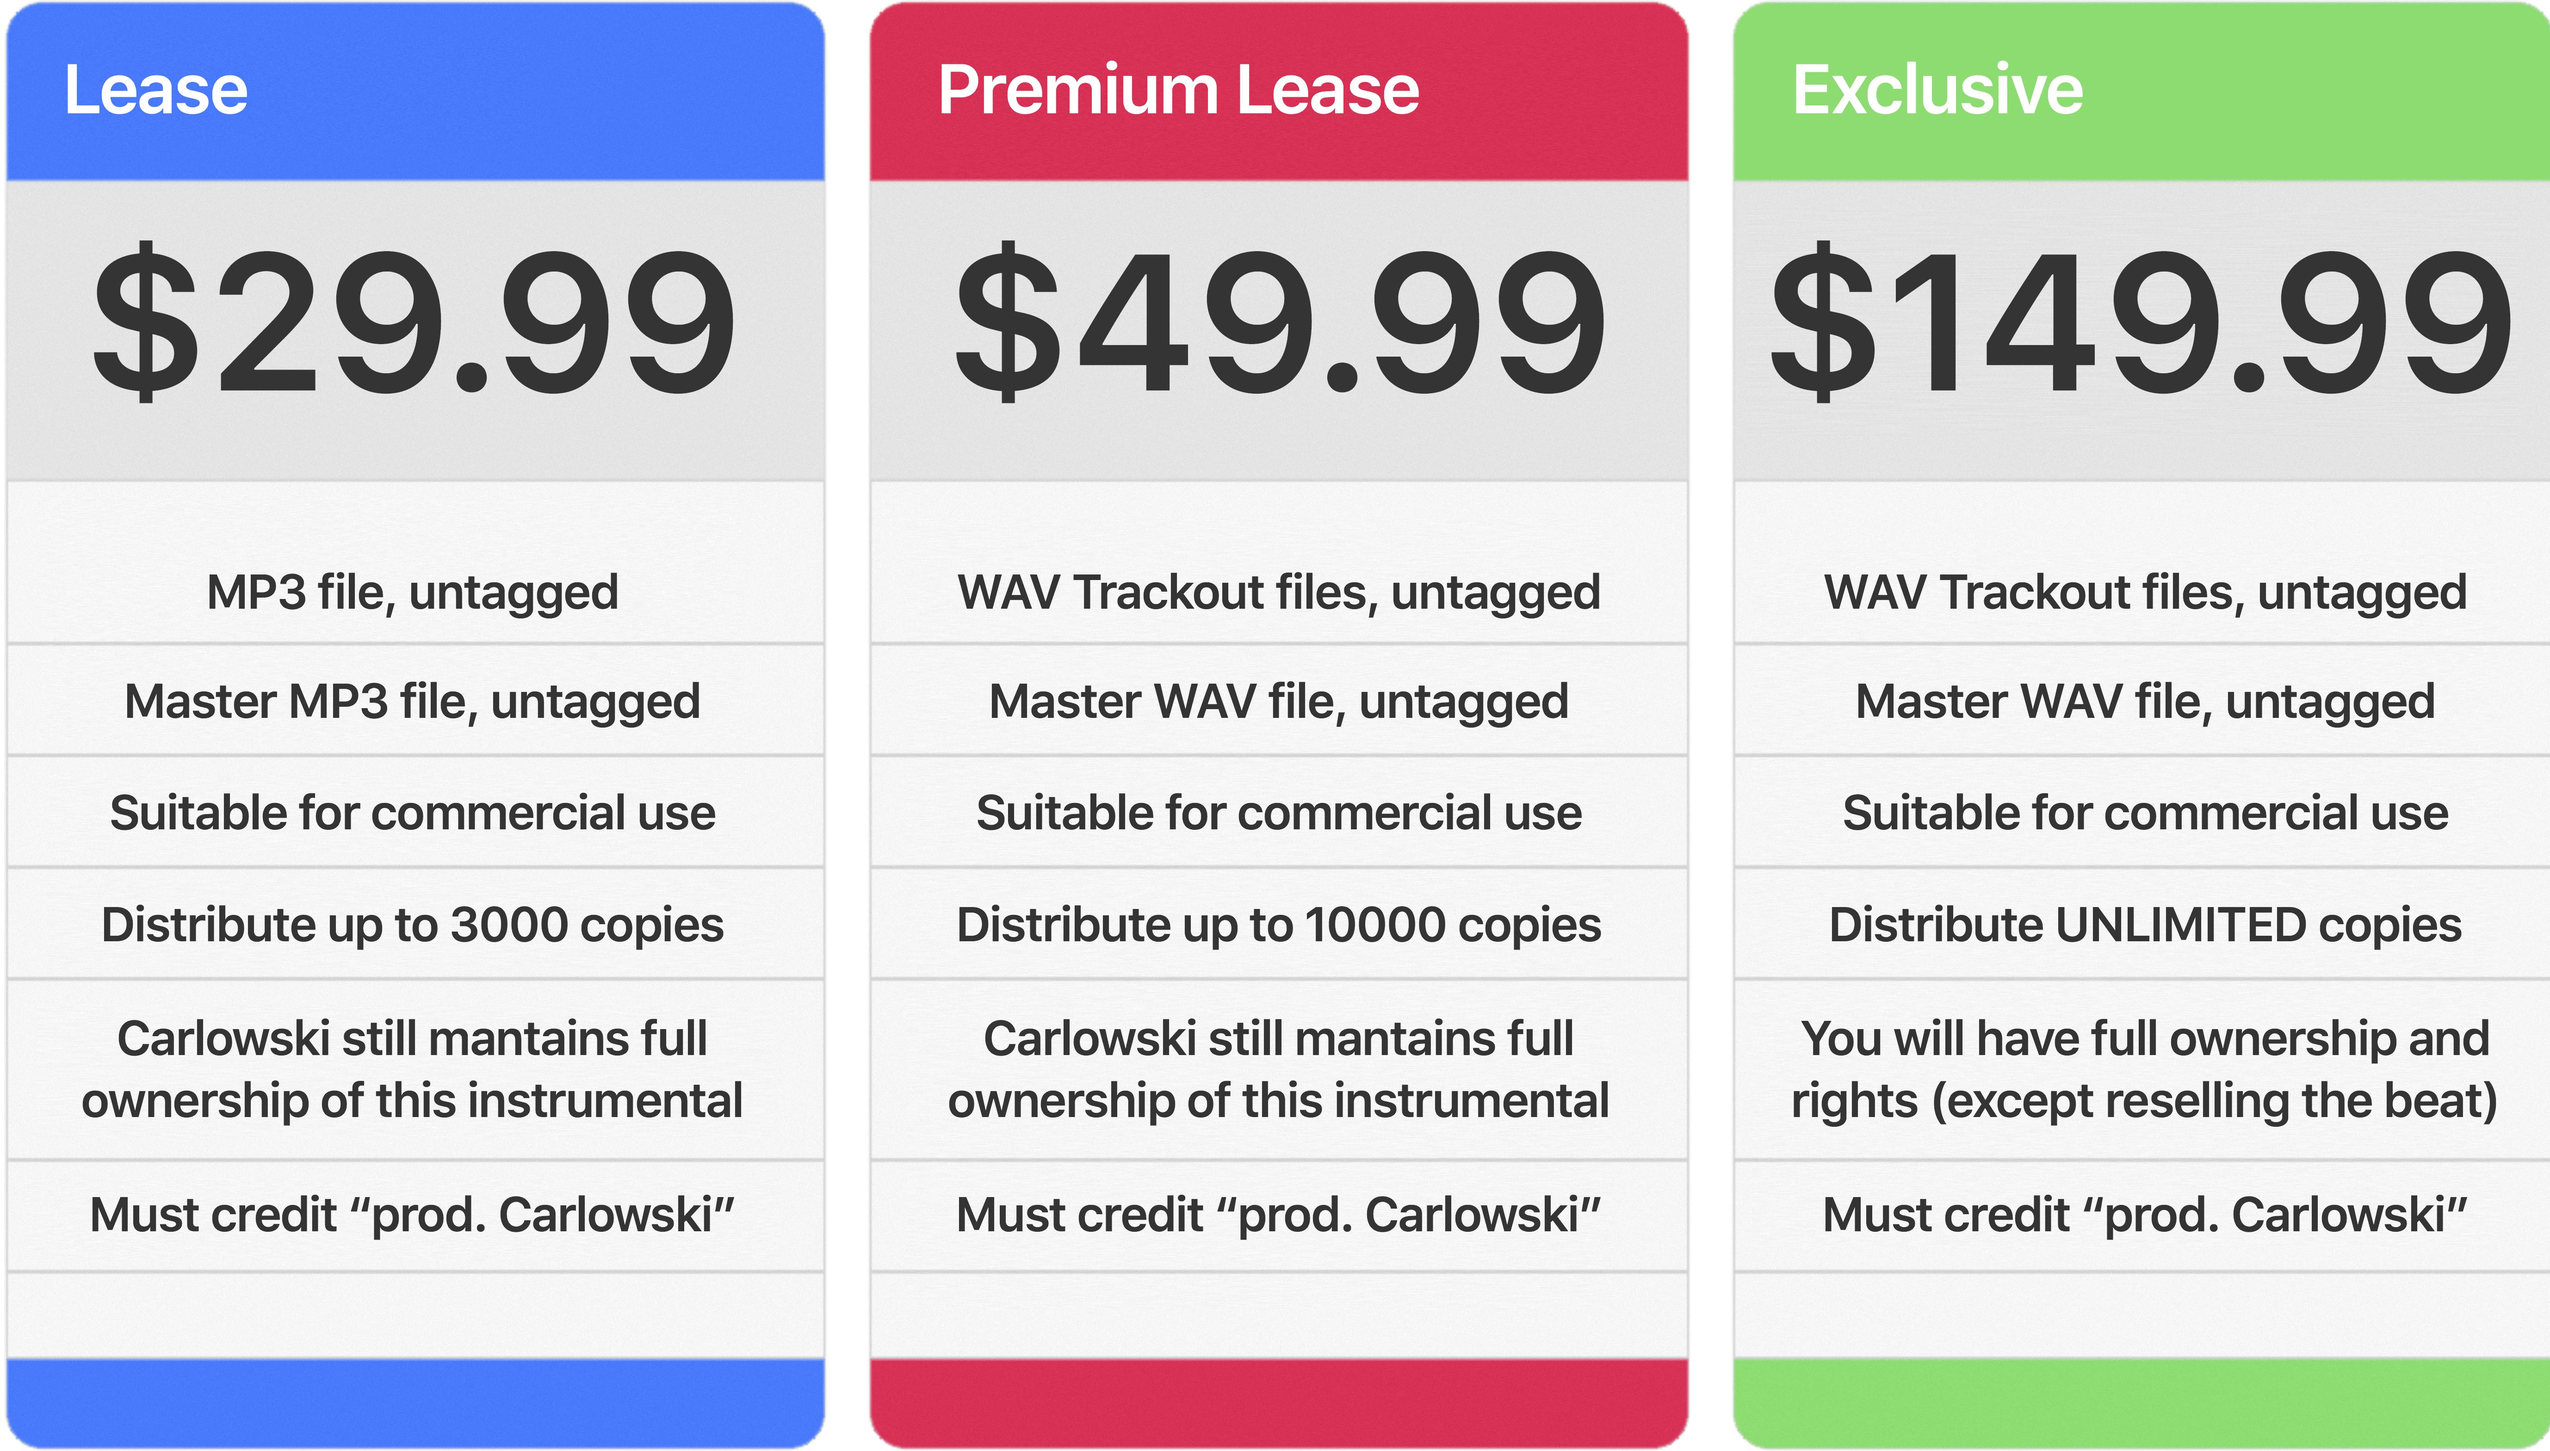
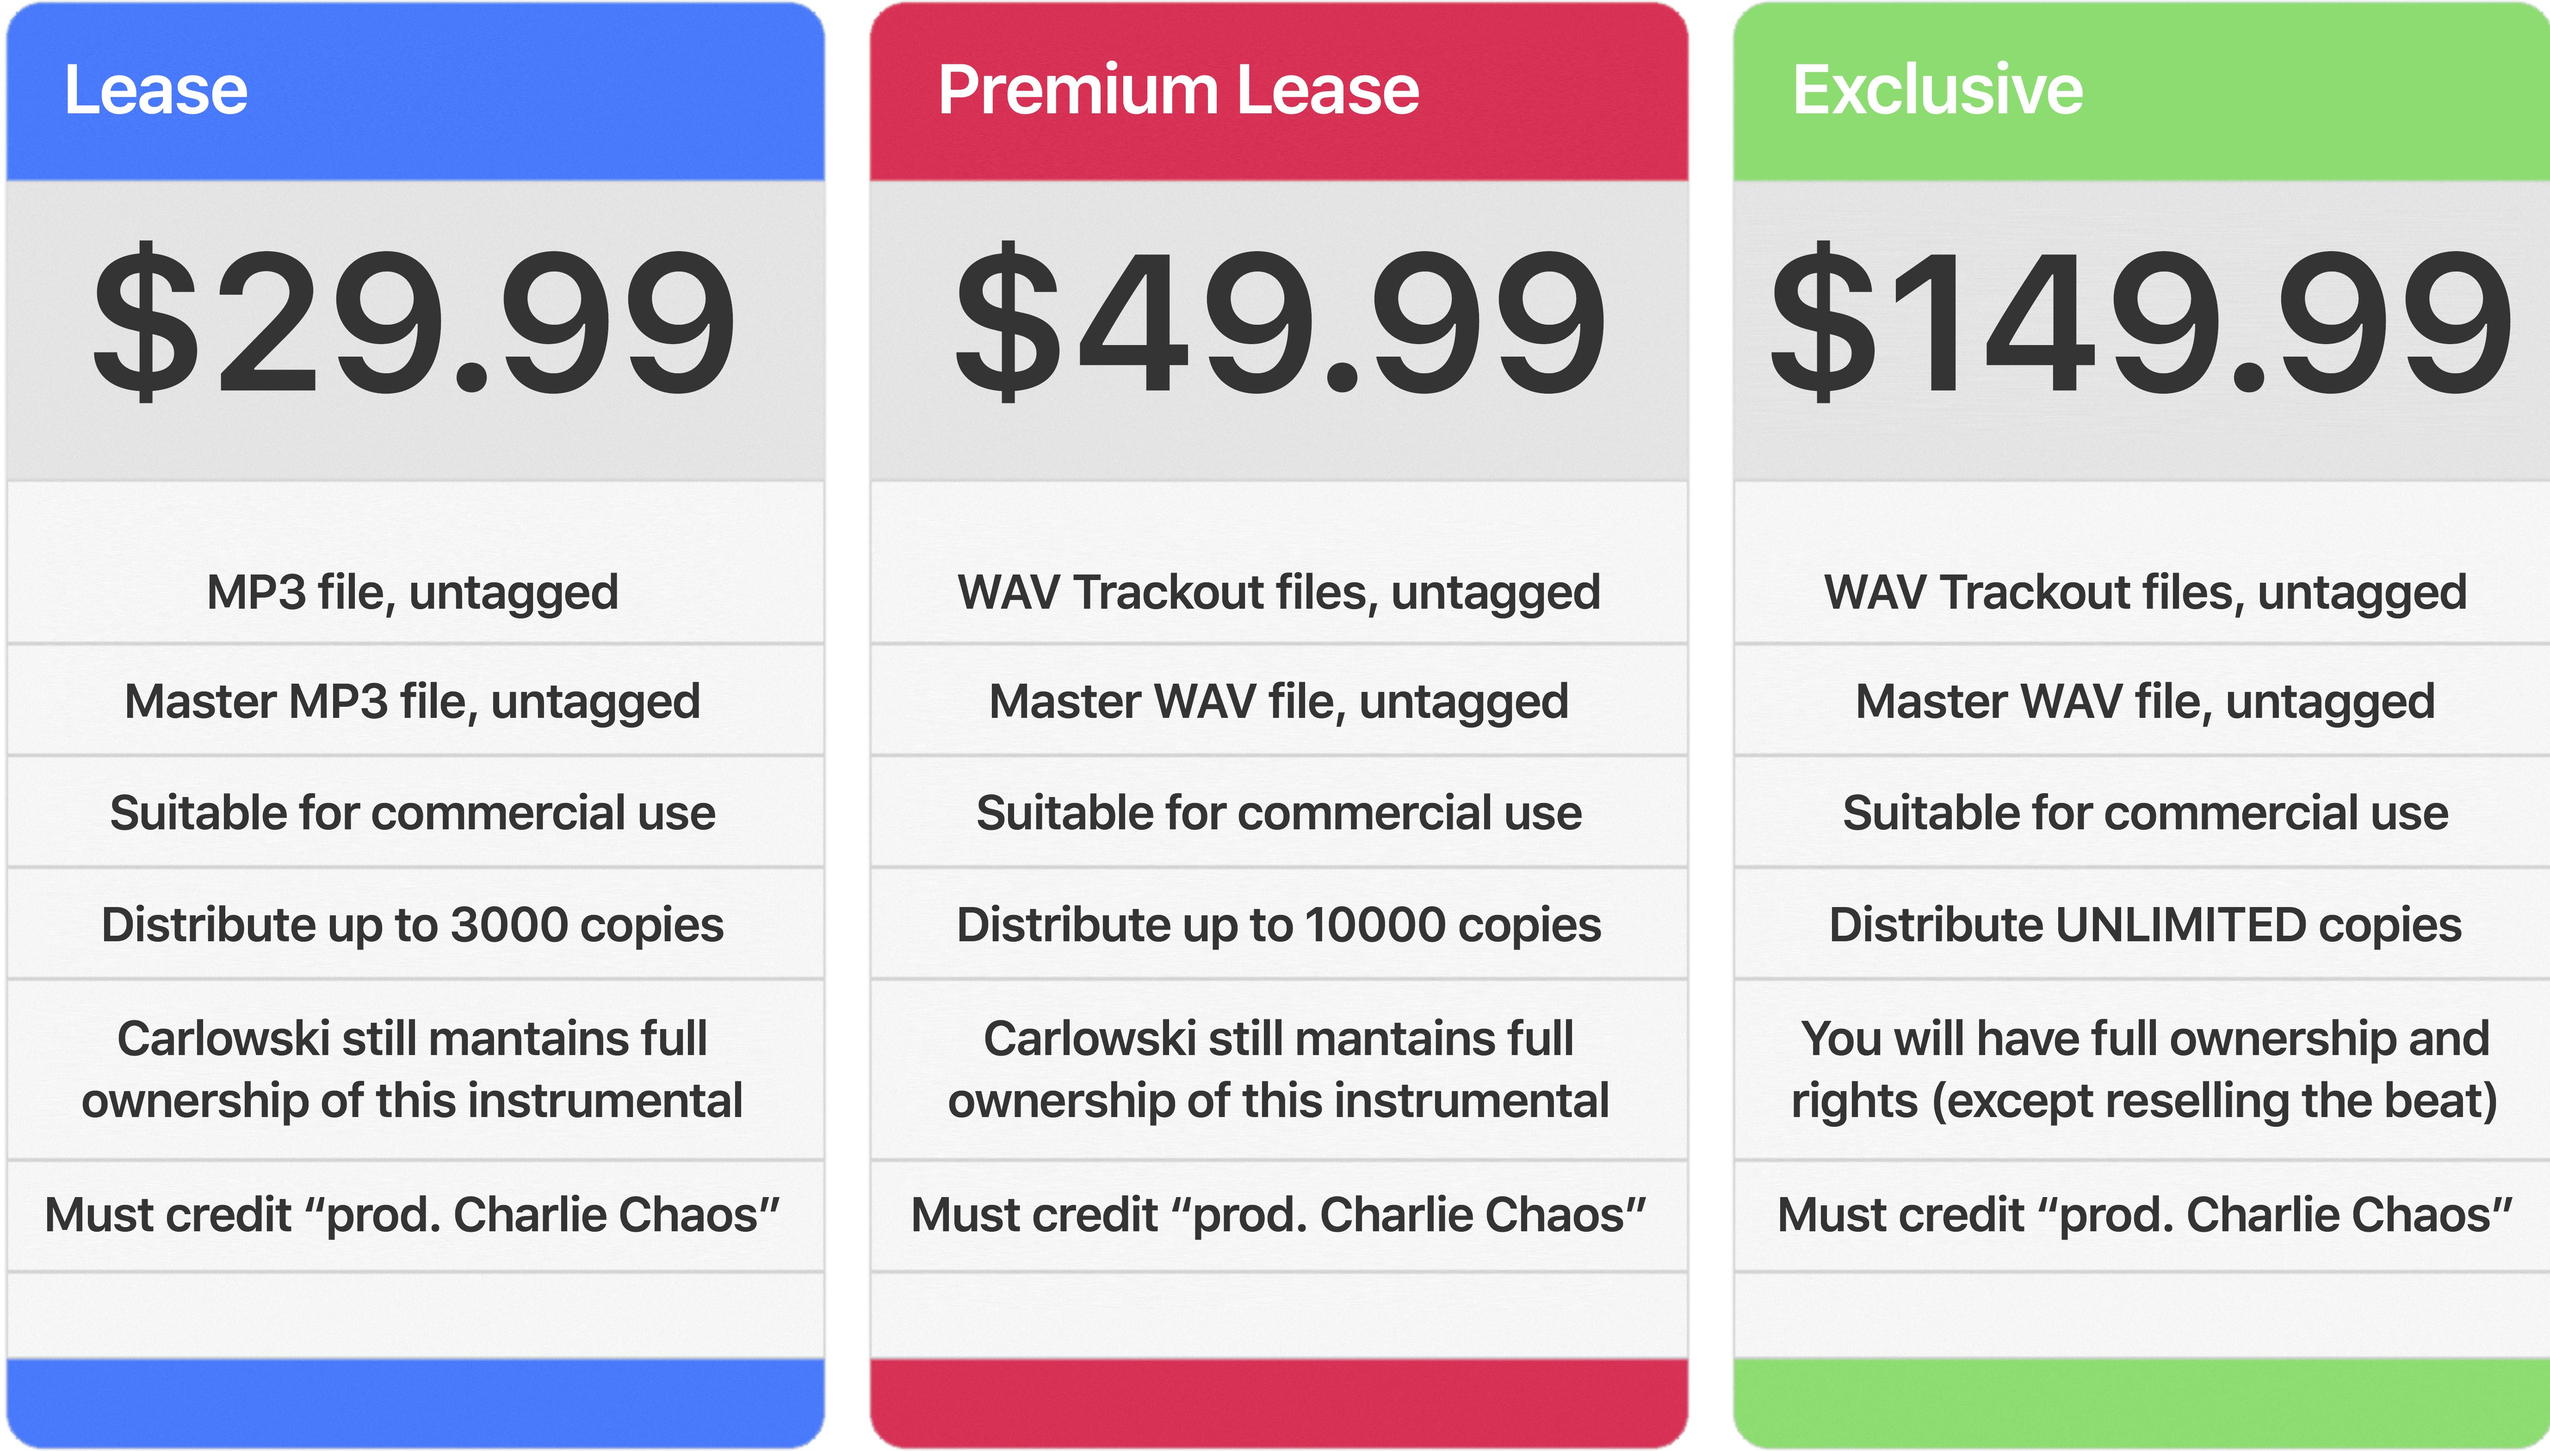
4.0.4

Changed region(s): [[0.6865, 0.8122, 0.9985, 0.8747], [0.3433, 0.8122, 0.6553, 0.8747], [0.0, 0.8122, 0.312, 0.8747]]

diff --git a/about/index.html b/about/index.html
@@ -80,7 +80,7 @@
     <div style="text-align:justify;text-justify:inter-word;margin-left:20%;margin-right:20%;">
       <p>
         <h2>¿Quiénes somos?</h2>
-        <b>The Dog Pound</b> es un colectivo independiente de entretenimiento, formado por varios artistas, compositores y productores. Además, gestionamos artistas, publicaciones, giras y merchandising. Nuestra plantilla está formada por <a target="_blank" href="https://instagram.com/cxwsk"><b>Carlowski</b></a>, <a target="_blank" href="https://instagram.com/abruzzichabacano"><b>Alberto Abruzzi</b></a>, <a target="_blank" href="https://instagram.com/damnhomiedamn"><b>damnhomiedamn</a></b>, <a target="_blank" href="https://instagram.com/legouttt"><b>Gout</b></a> y <a target="_blank" href="https://instagram.com/tomtaker_"><b>TomTaker</b></a>.
+        <b>The Dog Pound</b> es un colectivo independiente de entretenimiento, formado por varios artistas, compositores y productores. Además, gestionamos artistas, publicaciones, giras y merchandising. Nuestra plantilla está formada por <a target="_blank" href="https://instagram.com/carlowski_"><b>Charlie Chaos</b></a>, <a target="_blank" href="https://instagram.com/albertoabruzzi"><b>Alberto Abruzzi</b></a>, <a target="_blank" href="https://instagram.com/damnhomiedamn"><b>damnhomiedamn</a></b>, <a target="_blank" href="https://instagram.com/legouttt"><b>Gout</b></a> y <a target="_blank" href="https://instagram.com/tomtaker_"><b>TomTaker</b></a>.
         <br>
         <br>
         <h2>¿Cuál es nuestro objetivo?</h2>

diff --git a/mixtapes/index.html b/mixtapes/index.html
@@ -100,9 +100,6 @@
     <p>
       Aquí puedes descargar todas las mixtapes de nuestros artistas y de nuestro <b>Artist Spotlight</b>.
     </p>
-    <p style="text-align:center;">
-      <a href="#2015"><b>2015</b></a> - <a href="#2016"><b>2016</b></a> - <a href="#2017"><b>2017</b></a>
-    </p>
     <br>
     <a name="2017"><p style="text-align:center;"><b>2017</b></p></a>
     <div style="text-align:center;">
